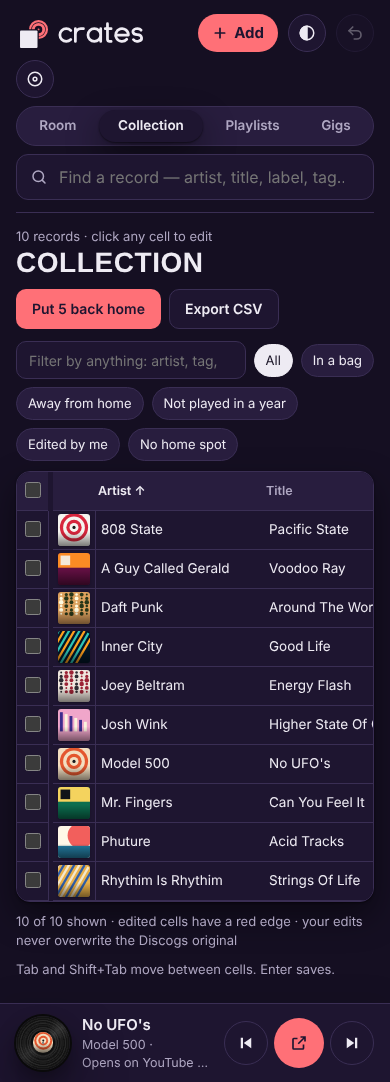
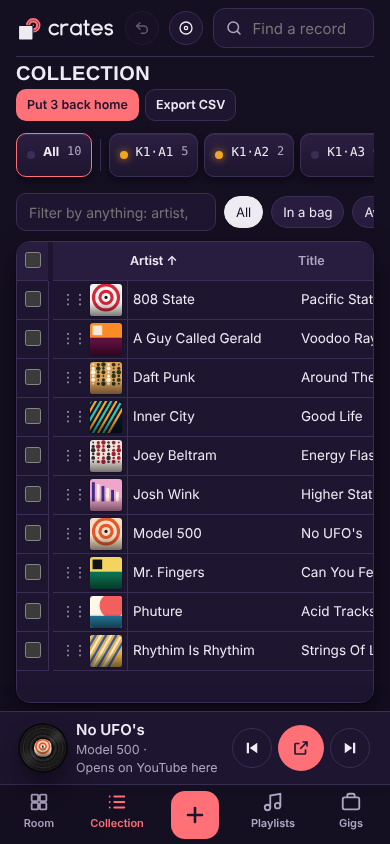
README: 0.8b screenshots and feature list
Claude-Session: https://claude.ai/code/session_01GjUsXrTJbfwsyuQXsEMkpL

diff --git a/README.md b/README.md
@@ -17,23 +17,23 @@ Crates maps your record collection to the furniture it actually lives in. Photog
 
 ## Screenshots
 
-The app opens in the dark **Booth** look. The switch at the top (◐) changes it to the light **Shop floor** look or to match your device.
+The app opens in the dark **Booth** look; the ◐ button switches to the light **Shop floor** look or follows your device. Room has two layouts, **Map** and **Columns**, switched next to the title.
 
-| Your room: every rack, bag and crate on one screen | Zoomed into Kallax 1: shelves, sleeve stack and details |
+| Map: the room on a pannable, zoomable canvas, a spot's records beside it | Columns: spots → records → record |
 |---|---|
-| ![Room view in the dark Booth look with Kallax 1, the Crater bag and a milk crate](docs/screenshots/readme-booth-room-desktop.png) | ![Kallax 1 open on shelf A2 in the Booth look](docs/screenshots/readme-room-desktop.png) |
-| **Shop floor look (light)** | **Collection spreadsheet** |
-| ![Kallax 1 in the light Shop floor look](docs/screenshots/readme-shop-unit-desktop.png) | ![Collection table with Bag and Home spot columns](docs/screenshots/readme-collection-desktop.png) |
-| **Player** | **Gig packing list** |
-| ![Two-column player with spinning record and queue](docs/screenshots/readme-player-desktop.png) | ![Gig load-out checklist](docs/screenshots/readme-gigs-desktop.png) |
+| ![Map view with Kallax 1, the Crater bag and a milk crate, K1·A1 open in the side panel](docs/screenshots/readme-map-desktop.png) | ![Columns view with the spots list, A1's records and the chosen record](docs/screenshots/readme-columns-desktop.png) |
+| **Collection: full height, with every container along the top** | **Shop floor look (light)** |
+| ![Collection table with the container bar and Bag and Home spot columns](docs/screenshots/readme-collection-desktop.png) | ![Map view in the light Shop floor look](docs/screenshots/readme-shop-map-desktop.png) |
+| **Player: pinch the record to grow the label, drag to seek** | **Gig packing list** |
+| ![Now playing with the spinning record and queue](docs/screenshots/readme-player-desktop.png) | ![Gig load-out checklist](docs/screenshots/readme-gigs-desktop.png) |
 | **Add a record: barcode and duplicate warning** | **QR stickers** |
 | ![Add record with barcode candidates and a duplicate warning](docs/screenshots/readme-add-record-dupe-desktop.png) | ![QR sticker sheet per unit and cubby](docs/screenshots/readme-stickers-desktop.png) |
 
 <details><summary>Phone screenshots</summary>
 
-| Room | Kallax 1 | Collection | Player | Gigs | Add record |
+| Map | Tap a cubby: its records as an overlay | Columns | Collection | Player | Add record |
 |---|---|---|---|---|---|
-| ![](docs/screenshots/readme-booth-room-mobile.png) | ![](docs/screenshots/readme-room-mobile.png) | ![](docs/screenshots/readme-collection-mobile.png) | ![](docs/screenshots/readme-player-mobile.png) | ![](docs/screenshots/readme-gigs-mobile.png) | ![](docs/screenshots/readme-add-record-dupe-mobile.png) |
+| ![](docs/screenshots/readme-map-mobile.png) | ![](docs/screenshots/readme-overlay-mobile.png) | ![](docs/screenshots/readme-columns-mobile.png) | ![](docs/screenshots/readme-collection-mobile.png) | ![](docs/screenshots/readme-player-mobile.png) | ![](docs/screenshots/readme-add-record-dupe-mobile.png) |
 
 </details>
 
@@ -41,8 +41,9 @@ The app opens in the dark **Booth** look. The switch at the top (◐) changes it
 
 **Where things are**
 - **Spots, not folders.** Each unit has an ID (K1, B1, C1). Cubbies are rows A, B, C… by columns 1, 2, 3…, so `K1·B2` is Kallax 1, second row, second cubby. Any cubby can have a subtitle such as "A2 (Acid)".
-- **Your room on one screen.** Every rack, bag and crate fits on screen. Click one and it zooms in.
-- **Cue bar.** A row along the top lists every cubby and bag. Tap one to open it, or drop a record on it.
+- **Map.** Your furniture on a canvas: drag to pan, pinch or scroll to zoom, double-tap a unit. Tap a cubby, bag or crate for its records in a side panel, or an overlay on phones. Nothing on the page scrolls.
+- **Columns.** Spots, records and the record, side by side on desktop and one at a time on phones with push/pop and ‹ › stepping between spots.
+- **Container bar.** Above the Collection table every spot is a pad: tap to filter, drop a row to move. Pads size to their text.
 - **Search to shelf.** Search by artist, title, label, cat no., BPM, key, tags, notes or cubby name, then jump straight to the spot.
 - **64 furniture presets and 41 record bags.** Every Kallax/Expedit size, other IKEA, Glorious, Zomo, Pro-Ject, Wax Stacks, crates and boxes, plus UDG, Magma, Zomo, Odyssey, Reloop, Gator and more. Each comes in its real finishes or colors, or a custom color. New bags start as "Bag 1", "Bag 2".
 
@@ -54,12 +55,15 @@ The app opens in the dark **Booth** look. The switch at the top (◐) changes it
 - **Bags remember where records came from.** Scan the whole bag to reconcile it, and Put back sends everything home.
 
 **Playing and gigs**
-- **Player.** Spinning vinyl, a large-font queue, YouTube links and a redundant timeout/fallback chain. It slides up from the bottom the first time something plays.
+- **Player.** Spinning vinyl, a large-font queue, YouTube links and discogs-stream's timeout/fallback chain. It slides up when something plays and slides out from its tab. Drag the bar to seek, pinch the record to grow the label. The next record's link is cued in a standby player, and links that play are saved back to the record.
 - **30-second previews.** Audio only, no video, like discogs-stream.
 - **Gigs.** Plan, load out, log what you played at the gig, and check in back home (anything missing gets flagged).
 - **Set history.** Last played, play counts, and a "Not played in a year" dig list.
 
 **Your data**
+- **Backups, save and load.** Four rolling backups, made before every import, restore and reset, with a picker. Save the collection to a file and load it back.
+- **Discogs import and upload.** Load your Discogs CSV export (duplicates skipped, new records land as Unplaced) and queue uploads to your Discogs collection.
+- **Density.** Regular or compact rows, bars and buttons.
 - **Collection spreadsheet.** Edit details in place, use the Bag and Home spot columns for the post-gig put-back, and export to CSV. Laid out for landscape.
 - **Adding records.** By photo, typing or barcode, with a duplicate warning ("You already own this. It's in K1·A1").
 - **Discogs.** Your edits never overwrite the original, and locations can be saved to a Discogs "Location" field.
@@ -78,8 +82,8 @@ Barcode lookups and Discogs sync are simulated in the prototype and say so in th
 | [BUGS.md](BUGS.md) | Known bugs and what's been fixed |
 | [QA.md](QA.md) | Test catalog, error-handling audit, code review, swarm work packages |
 | [CLAUDE.md](CLAUDE.md) | Rules for Claude and agent swarms working in this repo |
-| [docs/](docs/) | Architecture, data model, player port spec, roadmap, infrastructure |
-| [research/](research/) | Furniture, bag and feature research behind the presets |
+| [docs/](docs/) | Architecture, data model, player port spec, interaction spec, review-swarm report, roadmap, infrastructure |
+| [research/](research/) | Furniture, bag, feature, competitor and Discogs API research |
 | [logos/](logos/) | The logo (concept 3, "Half-pulled") and the other directions |
 
 ## Quick start
@@ -89,10 +93,10 @@ node scripts/build.mjs        # wraps crates.html into dist/index.html
 npx serve dist                # open http://localhost:3000
 
 pip install --break-system-packages playwright
-CRATES_NO_PATCH=1 python3 tests/test_crates.py   # 53 Playwright tests
+CRATES_NO_PATCH=1 python3 tests/test_crates.py   # 65 Playwright tests
 ```
 
-The prototype keeps its data in your browser (localStorage), so each browser has its own collection. The database schema lives in `app/db/` (Neon Postgres; run 001–004 in order).
+The prototype keeps its data in your browser (localStorage), so each browser has its own collection. The database schema lives in `app/db/` (Neon Postgres; run 001–005 in order; 005 mirrors discogs-stream's tables and adds backups).
 
 ## Deploy
 
